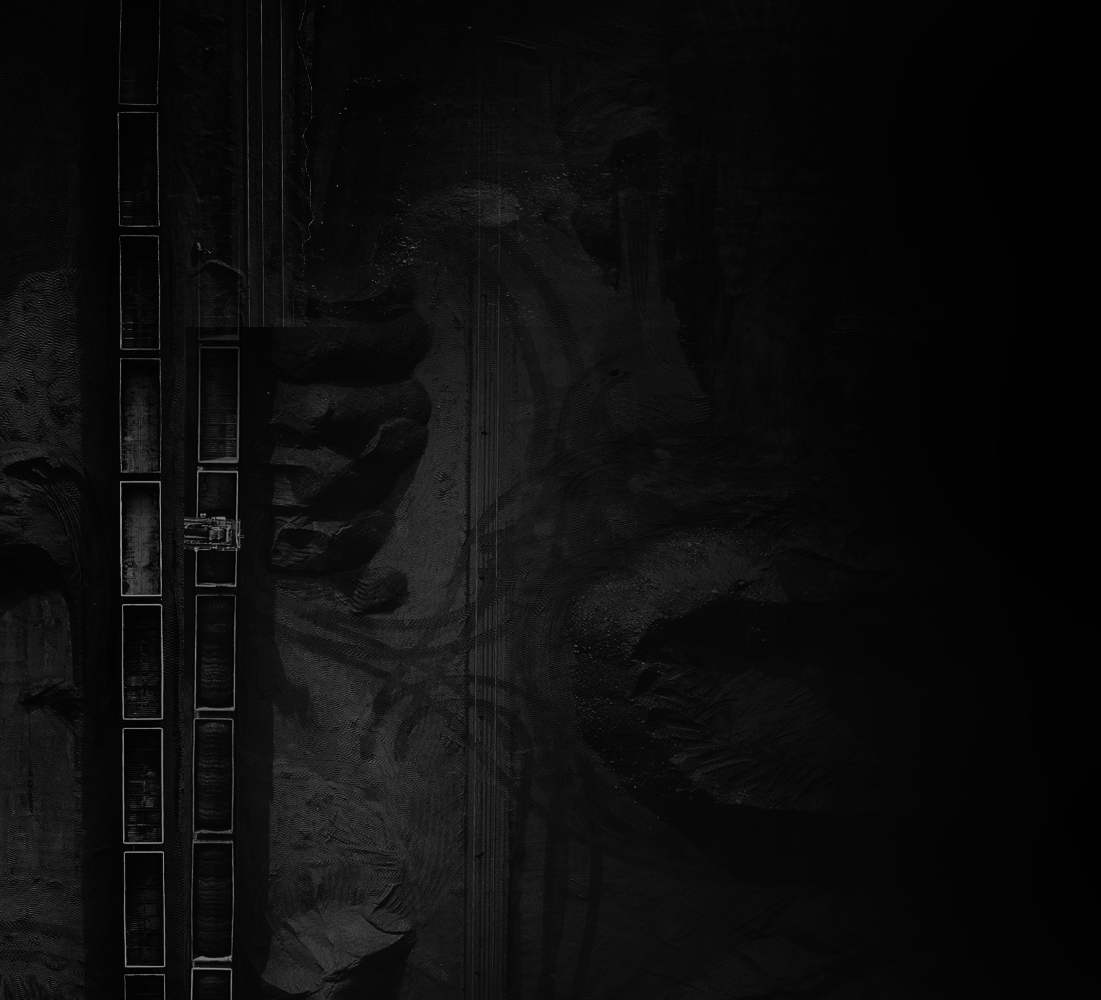
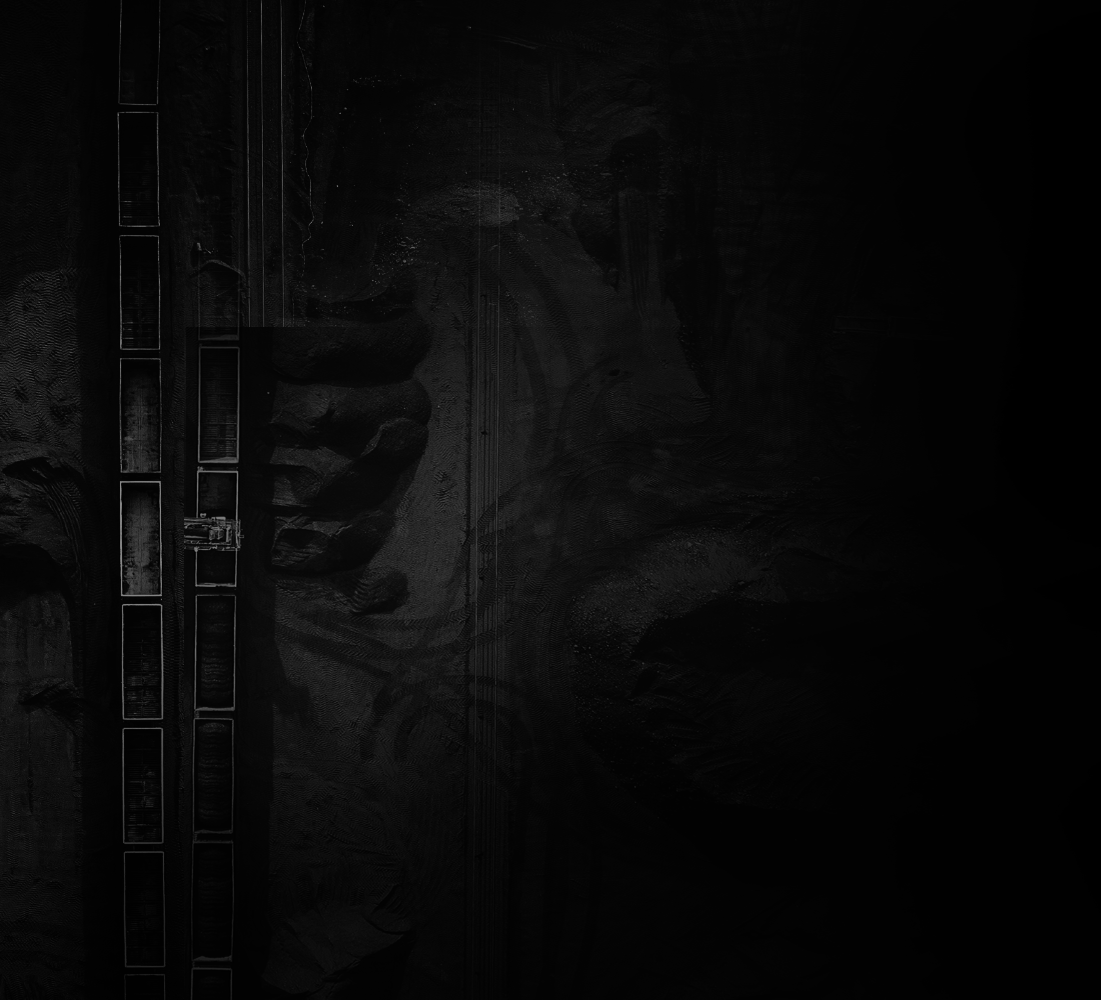
update image background main

diff --git a/assets/css/style.css b/assets/css/style.css
@@ -36,9 +36,7 @@
    height: 800px;
 
    color:white;
-
 }
-
 
 .map-container-2{
 overflow:hidden;
@@ -77,14 +75,12 @@ btn-primary{
     left: 0;
 }
 
-
 .button-grouping{
     position:absolute;
 }
 
 .main-logo img{
     position: absolute;
-
 }
 
 /*--------------------------------------------Section frame*/
@@ -100,16 +96,13 @@ btn-primary{
     color:white;
     font-size: 20px; 
     padding-bottom: 25px;   
-    
 }
 
 .input-field1 h1{
     font-family:'Overlock', sans-serif;
     color:white;
     margin-bottom: 20px; 
-    
 }
-
 
 .input-field2 {
     font-family: 'Overlock', sans-serif;
@@ -122,7 +115,6 @@ btn-primary{
     color:white;
     font-size: 20px;
 }
-
 
 .container{
     color:brown;
@@ -146,7 +138,6 @@ body, html {
   color: #777;
   background-color: black; 
 }
-
 
 /*--------------------------------------------Button default style*/
 
@@ -209,7 +200,6 @@ body, html {
     -webkit-transition: all 0.35s ease-in-out;
     -o-transition: all 0.35s ease-in-out;
 }
-
 
 #button2 {
     height: 40px;
@@ -285,10 +275,7 @@ body, html {
     z-index: 99; 
     top: 5px;
     right: 15px;
-   
-    
 }
-
 
 .transbox p {
  font-family: 'Overlock';
@@ -322,7 +309,6 @@ body, html {
     color: grey; 
     font-size: 15px;
     font-family: 'Overlock';
-
 }
 
 .btn-primary.active{
@@ -330,7 +316,6 @@ body, html {
     font-family: 'Overlock';
     font-size: 20px; 
 }
-
 
 /*--------------------------------------------Logo's / accomodations*/
 
@@ -357,11 +342,6 @@ body, html {
     height: 192px; 
 }
 
-
-
- /*--------------------------------------------Misc*/
- 
- 
 .transbox2 {
     width: 100% ;
     background-color: #000; 
@@ -402,8 +382,7 @@ body, html {
   letter-spacing: 10px;
 }
 
-
- /*--------------------------------------------Button event*/
+ /*--------------------------------------------Button event & active classes*/
 
 .inn-preview{
  display: none; 
@@ -416,8 +395,6 @@ body, html {
 @media screen and (max-width:1000px) {
     .bg-cover {display:none}
 }
-
-
 
 .inn-preview {
   max-width: 300px;

diff --git a/app.html b/app.html
@@ -21,7 +21,7 @@
     <img src="assets/css/images/nortway2.png" alt="main logo">
     </div>  
     
-      <img src="assets/css/images/bg_nw1.png" alt="background"> 
+      <img src="assets/css/images/bg_nw3.png" alt="background"> 
       </div>
       </div>
 
@@ -46,7 +46,7 @@
 
       <h2>Choose your style</h2>
         <p>We have selected three different
-          locations and accomodations. Choose what kind of accomodation will suit you best.</p>
+        locations and accomodations. Choose what kind of accomodation will suit you best.</p>
      
   
       <div id="button2">
@@ -55,13 +55,10 @@
       <input type="button" id="deluxe"  class="show-inn" value="Deluxe">      
       <input type="button" id="diamond"  class="show-inn" value="Diamond"> 
     
-          </div>
-       </div>
-       
-    
-</div>
-</div>
-</div>
+        </div>
+        </div>
+    </div>
+
     <div class="mapgeneral">
     <div class="col-md-6">
 
@@ -73,7 +70,7 @@
                 
          
          </div>
-           <h3>Preview your stay!</h3>
+           <h3><b>Preview your stay!</b></h3>
            <p>Below you can see a preview of the finest selected locations in California on your roadtrip.
            Start first with the style selector and then choose your stay.</p>
   

diff --git a/assets/js/buttonscript.js b/assets/js/buttonscript.js
@@ -1,10 +1,12 @@
 $(".show-inn").on("click", function() {
-  // Remove the active class from all inns
+
   $(".inn-preview").removeClass("active");
   
-  // Get the ID of the button that was clicked e.g deluxe 
+
   var buttonId = $(this).attr("id");
   
-  // Give the Inn with a corressponding ID the active class. E.g #deluxeInn will get the active class
+
   $(`#${buttonId}Inn`).addClass("active");
+  
+  
 });

diff --git a/README.md b/README.md
@@ -7,6 +7,7 @@ The design is focused on transparency and a simple, attractive usable interface.
 
 
 This project concerns the second official assignment at Code Institute (see more about Code Institute at www.codeinstitute.net). 
+The project concerns a own chosen format and scope, with some inspiration from the 'Holiday Planner' project, like included in the project briefing from Code Insitute.
 
 Niels de Klerk (february, 2019)
 
